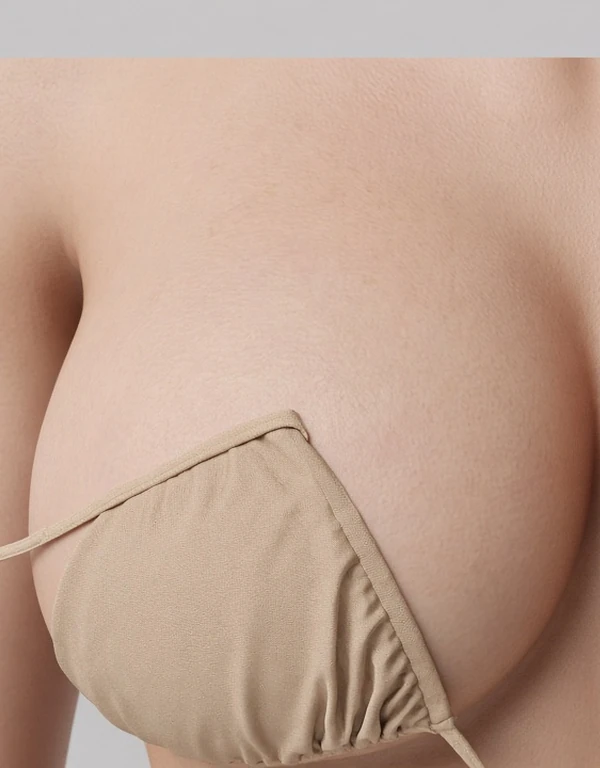
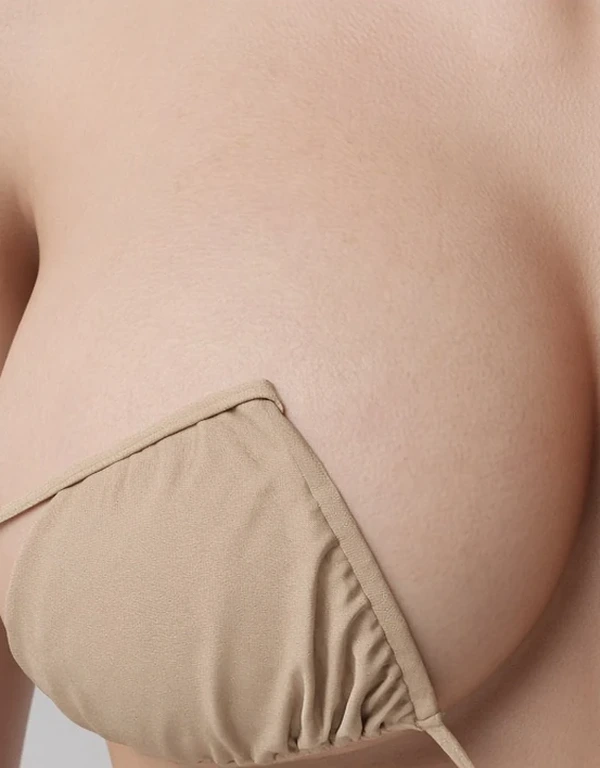
Remove the grey studio bar from pair 39 art.
Replace the three pair 39 webps and bump the pair-art runtime cache name so installed clients fetch the corrected files.

diff --git a/vite.netlify.config.ts b/vite.netlify.config.ts
@@ -57,7 +57,9 @@ export default defineConfig({
             urlPattern: /\/images\/pairs\/.*\.(?:webp|png)$/i,
             handler: 'CacheFirst',
             options: {
-              cacheName: 'mah-pair-art-runtime',
+              // CacheFirst keys on the URL. Bump this name when pair art bytes change
+              // or installed clients keep the previous file for maxAgeSeconds.
+              cacheName: 'mah-pair-art-runtime-v2',
               expiration: {
                 maxEntries: 48,
                 maxAgeSeconds: 60 * 60 * 24 * 14,
